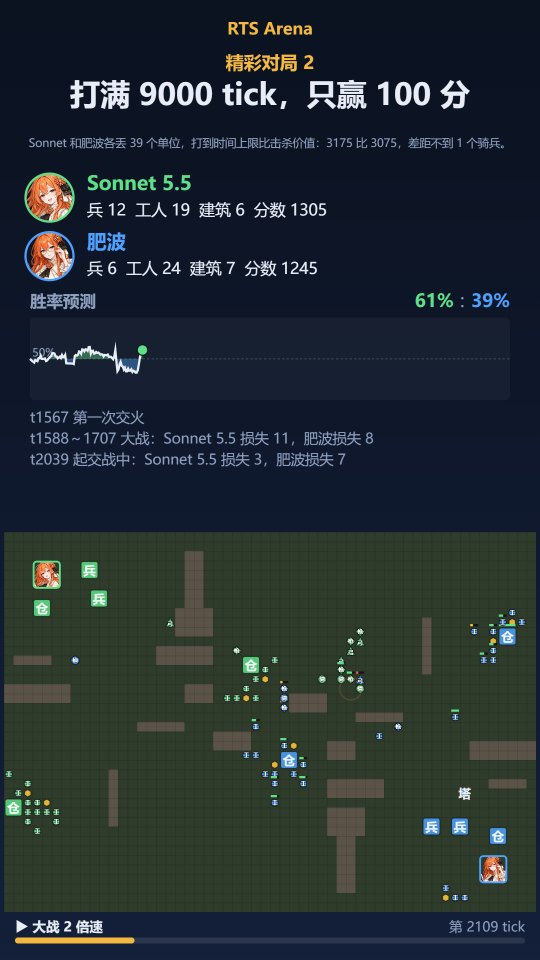
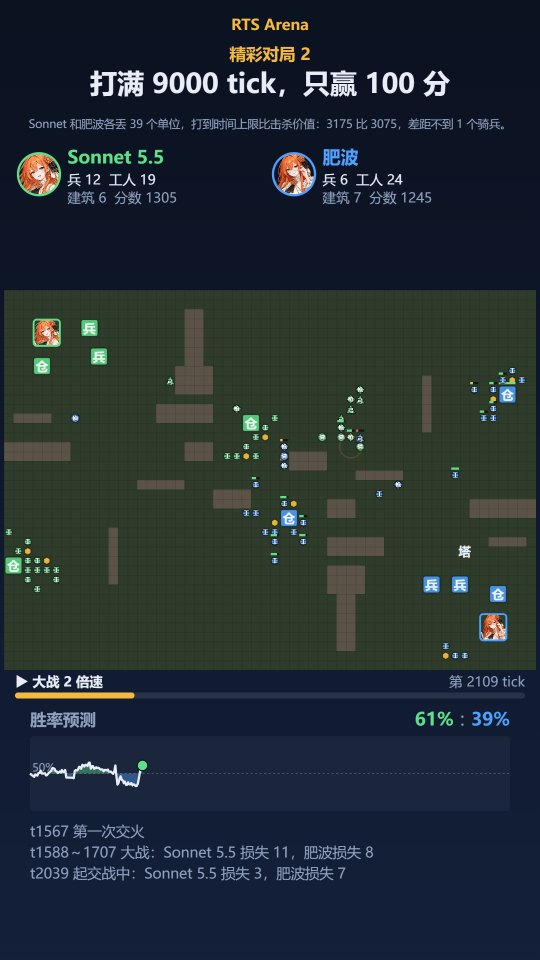
竖屏回放地图放正中：标题和双方在上，胜率折线和战况挪到地图下方（D-182）

diff --git a/src/video/page.ts b/src/video/page.ts
@@ -1063,50 +1063,55 @@ export function installVideoPage(): void {
   }
 
   /**
-   * 竖屏的回放（D-181，用户：竖屏对战界面太小，地图拉到 100% 宽度、战场信息放到地图上方）：
-   * 上面是标题和解说、双方头像和兵力、胜率折线、最新的战况，下面是拉满宽度的地图和进度条
+   * 竖屏的回放（D-181、D-182，用户：地图拉到 100% 宽度、放在画面正中）：上面是标题、解说、双方头像和兵力（左右两栏），
+   * 中间是拉满宽度的地图，下面是进度条、胜率折线和最新的战况
    */
   function vReplay(s: Any, f: Any, i: number): void {
     vBackground()
     const mapW = s.width * TILE
     const mapH = s.height * TILE
     const ox = (VW - mapW) / 2
-    const oy = VH - mapH - 64
-    text("RTS Arena", VW / 2, 46, 22, C.accent, { bold: true, align: "center" })
-    text(`精彩对局 ${s.no}`, VW / 2, 92, 24, C.accent, { bold: true, align: "center" })
-    let y = fitLines(s.title, VW / 2, 140, 40, 24, VW - 60, 2, C.text, { bold: true, align: "center" })
-    if (s.commentary) y = fitLines(s.commentary, VW / 2, y + 4, 21, 15, VW - 60, 2, C.muted, { align: "center" })
-    y += 18
-    // 双方：头像、名字、兵力
-    ;(s.seats as Any[]).slice(0, 2).forEach((st, k) => {
+    // 地图上方：标题、解说、双方（左右两栏）
+    text("RTS Arena", VW / 2, 40, 20, C.accent, { bold: true, align: "center" })
+    text(`精彩对局 ${s.no}`, VW / 2, 80, 22, C.accent, { bold: true, align: "center" })
+    let y = fitLines(s.title, VW / 2, 124, 36, 22, VW - 60, 2, C.text, { bold: true, align: "center" })
+    if (s.commentary) y = fitLines(s.commentary, VW / 2, y, 19, 14, VW - 60, 2, C.muted, { align: "center" })
+    const seats = (s.seats as Any[]).slice(0, 2)
+    const colW = (VW - 40) / Math.max(1, seats.length)
+    const sy = y + 6
+    seats.forEach((st, k) => {
       const c = f.counts?.[k] ?? { army: 0, workers: 0, buildings: 0, score: 0, alive: true }
-      avatarCircle(st.avatar, st.name, st.color, 66, y + 30, 32)
-      fitLines(st.name, 116, y + 20, 26, 16, VW - 140, 1, st.color, { bold: true })
-      text(c.alive ? `兵 ${c.army}  工人 ${c.workers}  建筑 ${c.buildings}  分数 ${c.score}` : "已出局", 116, y + 54, 21, C.text)
-      y += 78
+      const cx = 20 + k * colW
+      avatarCircle(st.avatar, st.name, st.color, cx + 32, sy + 36, 28)
+      fitLines(st.name, cx + 70, sy + 22, 24, 14, colW - 80, 1, st.color, { bold: true })
+      text(c.alive ? `兵 ${c.army}  工人 ${c.workers}` : "已出局", cx + 70, sy + 50, 18, C.text)
+      if (c.alive) text(`建筑 ${c.buildings}  分数 ${c.score}`, cx + 70, sy + 74, 18, C.muted)
     })
-    if (s.win) {
-      drawWin(s.win, f.t ?? 0, 40, y + 22, VW - 80, 110, 22)
-      y += 22 + 12 + 110 + 26
-    }
-    // 战况：地图上方放得下几条放几条，留最新的
-    const room = Math.max(0, Math.floor((oy - 14 - y) / 28))
-    for (const ev of (f.events as string[]).slice(-room)) {
-      fitLines(ev, 40, y + 4, 19, 14, VW - 80, 1, C.muted)
-      y += 28
-    }
+    const top = sy + 92
+    // 地图放在画面正中（D-182，用户要求）；上面的字太多放不下时才往下挪
+    const oy = Math.max((VH - mapH) / 2, top)
     drawField(s, f, ox, oy)
-    // 进度条和变速
-    const by = oy + mapH + 34
-    roundRect(20, by, VW - 40, 8, 4, "rgba(255,255,255,0.1)")
-    roundRect(20, by, Math.max(8, (VW - 40) * (f.progress ?? 0)), 8, 4, C.accent)
-    text(`第 ${f.t ?? 0} tick`, VW - 20, by - 8, 18, C.muted, { align: "right" })
-    if (!f.final) text(f.pace === "quiet" ? "▸▸ 快进" : f.pace === "battle" ? "▶ 大战 2 倍速" : "▶ 交火 4 倍速", 20, by - 8, 18, f.pace === "quiet" ? C.accent : C.text, { bold: true })
-    else {
+    if (f.final) {
       g.globalAlpha = 0.85
       roundRect(40, oy + mapH / 2 - 60, VW - 80, 120, 16, "#0b1220", C.accent)
       g.globalAlpha = 1
       fitLines(s.result, VW / 2, oy + mapH / 2 + 14, 36, 20, VW - 120, 1, C.accent, { bold: true, align: "center" })
+    }
+    // 地图下方：进度条和变速、胜率折线、最新的战况
+    const by = oy + mapH + 30
+    roundRect(20, by, VW - 40, 8, 4, "rgba(255,255,255,0.1)")
+    roundRect(20, by, Math.max(8, (VW - 40) * (f.progress ?? 0)), 8, 4, C.accent)
+    text(`第 ${f.t ?? 0} tick`, VW - 20, by - 8, 18, C.muted, { align: "right" })
+    if (!f.final) text(f.pace === "quiet" ? "▸▸ 快进" : f.pace === "battle" ? "▶ 大战 2 倍速" : "▶ 交火 4 倍速", 20, by - 8, 18, f.pace === "quiet" ? C.accent : C.text, { bold: true })
+    let y2 = by + 46
+    if (s.win) {
+      drawWin(s.win, f.t ?? 0, 40, y2, VW - 80, 100, 22)
+      y2 += 12 + 100 + 34
+    }
+    const room = Math.max(0, Math.floor((VH - 16 - y2) / 28) + 1)
+    for (const ev of (f.events as string[]).slice(-room)) {
+      fitLines(ev, 40, y2, 19, 14, VW - 80, 1, C.muted)
+      y2 += 28
     }
     void i
   }

diff --git a/src/video/workspace.ts b/src/video/workspace.ts
@@ -256,7 +256,7 @@ function videoPrompt(
   out.push("rts-arena video --lint                # 只核对脚本：格式、每段字数和上限、时间表（不出图，几秒钟），字数对了再出预览")
   out.push("rts-arena video --preview auto        # 每段各出一张预览图（放在 preview/ 里，另有一张总览拼图），先看排版、字有没有挤出去")
   out.push("rts-arena video --preview 12.5,40     # 只看这几秒（秒数从上一条命令列出的时间表里找）")
-  out.push("rts-arena video --short --check auto  # 可选：竖屏短版（1080×1920，五十秒左右：开场阵容、前三局精彩对局最大的一仗、排名；回放的地图拉满宽度，战场信息在地图上方），文件名后面加「-竖屏」")
+  out.push("rts-arena video --short --check auto  # 可选：竖屏短版（1080×1920，五十秒左右：开场阵容、前三局精彩对局最大的一仗、排名；回放的地图拉满宽度放在画面正中，标题和双方在上、胜率和战况在下），文件名后面加「-竖屏」")
   out.push("rts-arena video --check auto          # 出视频，并从成品里每段截一张图检查（也放在 preview/ 里；也可以写秒数：--check 5,60）")
   out.push("```")
   out.push("")

diff --git a/doc/设计.md b/doc/设计.md
@@ -36,6 +36,7 @@
 | D-117 | 平台装成本地命令 rts-arena，每人只维护自己的 bot 目录（arena.json 记规则包和 bot 文件）；对战服务以后再做 | 用户拍板（先做第一层） |
 | D-119 | 建造命令：下命令时立即放地基、立即扣钱；占地要都在己方视野里、没有任何实体（含单位）；工人贴着地基每 tick 干 1 份，多人叠加；拆地基退 75% | 用户要求"工人能造兵营"；具体规则是我定的，理由见第 13 节 |
 | D-120 | 新规则包「拓荒」frontier：开局没有兵营，工人可建兵营、箭塔、仓库，摧毁主基地获胜 | 用户要求"做一个支持建造的模式"；玩法和数值是我定的 |
+| D-182 | 竖屏回放再调：地图放在画面正中（上面的字太多时才往下挪），标题、解说、双方头像和兵力（改成左右两栏）在地图上方，进度条、胜率折线和最新战况挪到地图下方 | 用户："胜率预测应该放到地图画面下方保证地图再最中央" |
 | D-181 | 视频再改（用户看了克制拓荒七人联赛的成片）：① **删掉冷开场**（效果不好），脚本的 `hook.index` 不再使用（写了提醒删掉），`hook.text` 只放在开场阵容上，不写是「<人数> 位选手的<规则包>联赛，谁能夺冠？」。② **删掉片头署名页**：平台名、一句话介绍和两个仓库地址用小字放在开场阵容最下面，开场阵容从 1.6 秒改成 2.5 秒，之后直接是规则介绍。③ **选手页按联赛名次倒着出场**：最后一名先上、冠军压轴（名次一样的按脚本顺序）；`players` 的顺序只管开场阵容和片尾名单。④ **竖屏回放重排**：不再把横屏画面缩小塞进去，地图按宽度铺满放在下面，标题、解说、双方头像和兵力、胜率折线、最新战况放在地图上方（地图画法抽成 drawField，横竖屏共用）；竖屏短版改成开场之后放前三局精彩对局各自最大的一仗，五十秒左右。⑤ **不再另存封面图**（用户：可以截图） | 用户："开头的对战删掉吧，效果不好，横屏选手介绍应该按名字倒排一个一个放，先放最后一名，开头仓库介绍用小字放在封面的下方把……竖屏的对战界面太小了，把战斗窗口拉到100%宽度战场信息放到对战上方"；"封面图也不用出可以截图" |
 | D-180 | 雷达图两处修正（克制拓荒七人联赛出视频时发现）：「战斗」原来是杀伤比和最好的比，GPT 的箭塔流几乎不损失单位、杀伤比 255，别人全被压成 0；改成击杀占比＝击杀 ÷（击杀＋损失），本身就在 0～1，旁边照样标杀伤比（10 以上取整）。「代码」那一角换成「防守」（用户：代码不该按长度算，从防守、速胜、稳定、侦察里选了防守）：每局丢的建筑加工人（5 个工人算 1 座建筑），丢得最多的是 0、一点没丢的是 1，和「进攻」对称；雷达图 6 项都只用对局数据，代码的情况留在右下的代码卡片。分析缓存版本号改了，旧缓存自动重算 | 出视频时看预览发现；用户："代码不应该按照长度来确定吧？雷达图那个角还有什么别的可以替换的么" |
 | D-179 | 视频开头留人（用户：三秒跳出率高；从 6 条建议里选了 1、2、5，5 作为可选项）：① **开场阵容**：第一帧就是全体选手的立绘（横屏一排、竖屏每行 4 个，慢慢推近）和一句大字（脚本新增 `hook.text`，30 字，不写是「<双方>，谁能赢？」），不从黑屏淡入，1.6 秒；渲染完另存一张 `<视频名>-封面.png`。② **冷开场**：接着放 `hook.index` 那局（不写是第一局精彩对局）死人最多的一仗（一边倒的排后面），从第一个死亡前 40 tick 起按 2 倍速放 7 秒，顶上换成开场大字，直接切进来不淡入；然后才是片头署名、规则介绍。③ **竖屏短版**（可选，`video --short`）：1080×1920、四五十秒：开场阵容、冷开场、片头（2 秒）、另外两局精彩对局各放死人最多的一仗（每段最多 12 秒）、排名（5 秒）、片尾（4 秒）；横屏场景画在 landCanvas 上缩到中间，上面大标题、下面大号胜率折线图、双方头像加 VS、解说，排名下面放冠军头像，最上面一直留着平台署名；默认文件名加「-竖屏」。顺带：排名页行高按人数缩（7 个人原来超出画面），预览总览按比例缩竖屏图 | 用户："我们的视频三秒跳出率很高，还有什么可优化项么"；"125采用吧，5作为可选项" |

diff --git a/doc/联赛视频指南.md b/doc/联赛视频指南.md
@@ -164,9 +164,9 @@ rts-arena video --check auto
 - `--lint`：只核对脚本，几秒钟。列出每个字段的字数和上限、每段从第几秒到第几秒，脚本格式不对时列出所有问题。字数对了再往下。
 - `--preview auto`：每段画一张预览图，放在 `preview/` 里，另有一张把所有预览缩小拼在一起的总览图。先看总览，有问题再打开单张。要细看某几秒就写 `--preview 12.5,40`（秒数从时间表里找）。每次出预览会先清掉上一次的图。
 - `--check auto`：出视频（默认叫 `<规则包>联赛.mp4`，`--out` 可以改），再从成品里每段截一张图放进 `preview/`，确认成品和预览一样。两分钟的视频，一般电脑上渲染一两分钟。
-- `--short`（可选）：竖屏短版，1080×1920，五十秒左右：开场阵容、前三局精彩对局各放死人最多的一仗（每段最多 12 秒）、排名、片尾。回放的地图拉满宽度放在下面，标题、解说、双方头像和兵力、胜率折线、最新战况放在地图上方，给短视频平台用。默认文件名在横屏版后面加「-竖屏」，`--preview`、`--check`、`--lint` 都能和它一起用。
+- `--short`（可选）：竖屏短版，1080×1920，五十秒左右：开场阵容、前三局精彩对局各放死人最多的一仗（每段最多 12 秒）、排名、片尾。回放的地图拉满宽度放在画面正中，上面是标题、解说、双方头像和兵力，下面是进度条、胜率折线和最新战况，给短视频平台用。默认文件名在横屏版后面加「-竖屏」，`--preview`、`--check`、`--lint` 都能和它一起用。
 
-  ![竖屏短版：地图拉满宽度放在下面，标题、双方头像和兵力、胜率折线、战况在上面](images/video-short.jpg)
+  ![竖屏短版：地图拉满宽度放在正中，上面是标题和双方，下面是胜率折线和战况](images/video-short.jpg)
 
 `--lint` 的输出大概是这样：
 
